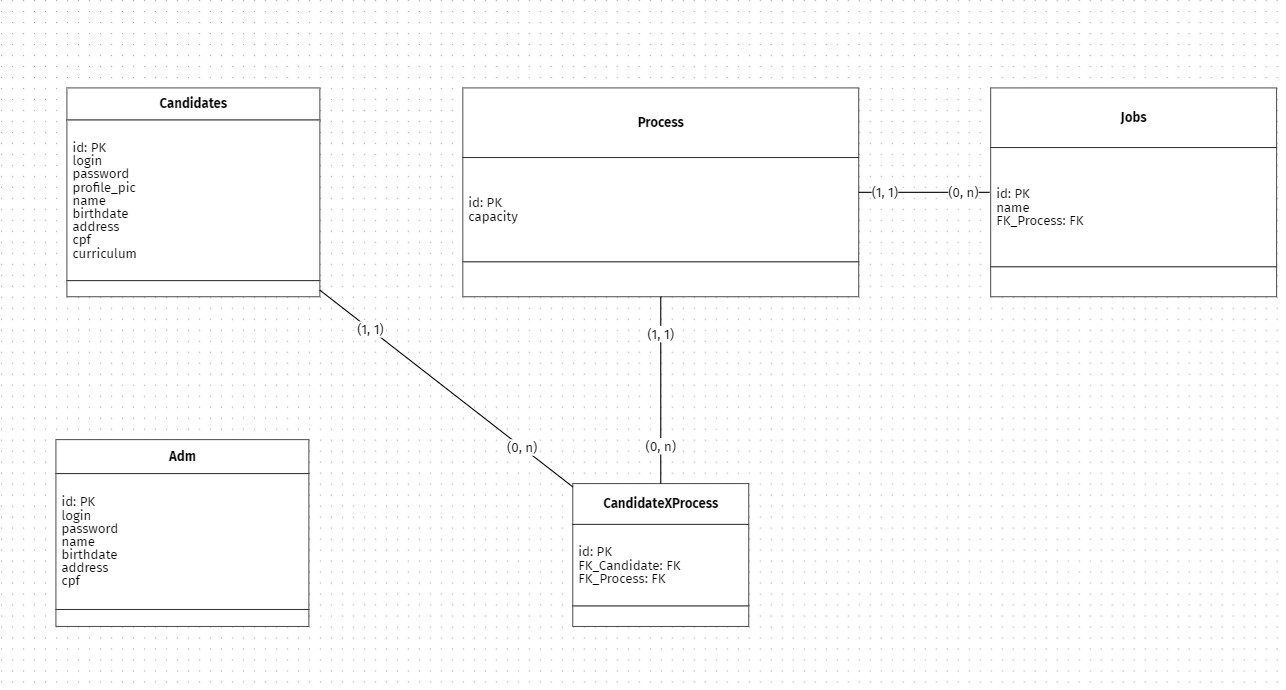
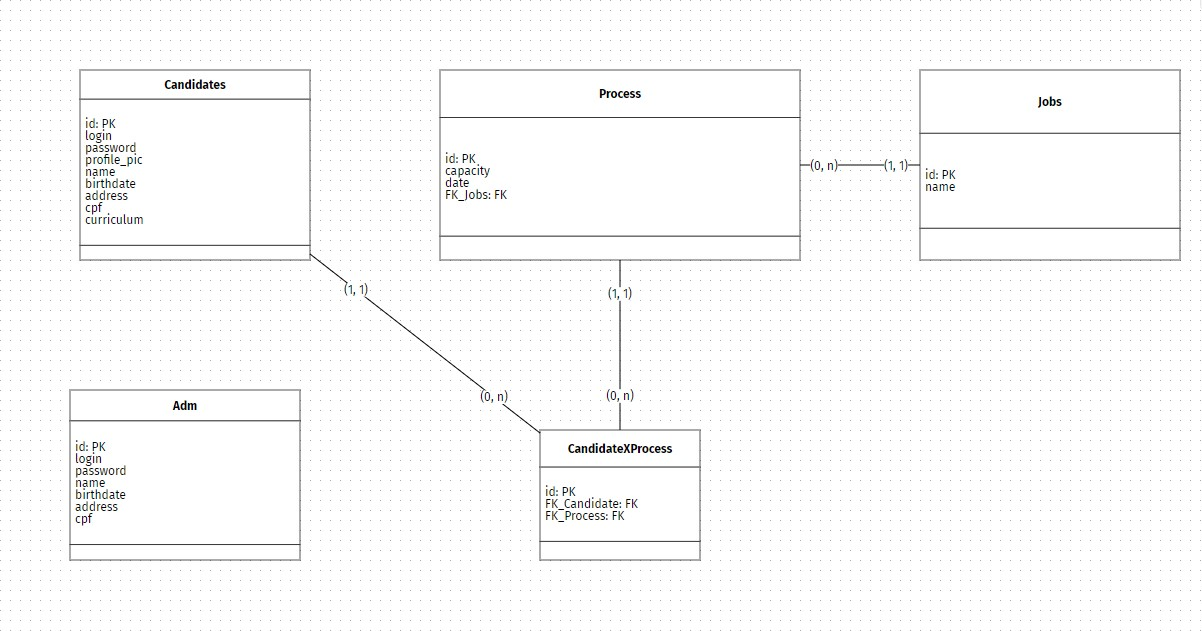
add: homePage's controller

diff --git a/src/controllers/homePage.js b/src/controllers/homePage.js
@@ -1,0 +1,28 @@
+const { name } = require('ejs');
+const user = require('../model/Candidate')
+const process = require('../model/Process')
+const job = require('../model/Jobs')
+
+
+module.exports = {
+
+    async homePageGet(req, res) {
+        const processData = await process.findAll({
+            raw: true,
+            attributes: ['id', 'capacity', 'FK_job']
+        });
+
+        const candidateData = await user.findAll({
+            raw: true,
+            attributes: ['id', 'login', 'password', 'profile_pic', 'name', 'birthdate', 'address', 'cpf', 'curriculum']
+        });
+
+        const jobData = await job.findAll({
+            raw: true,
+            attributes: ['id', 'name']
+        });
+
+        res.render("../views/homePage", { processData, candidateData, jobData });
+    }
+
+}

diff --git a/src/model/Process.js b/src/model/Process.js
@@ -15,20 +15,17 @@ const Process = database.define('Process', {
         allowNull: false
     },
 
+    date: {
+        type: sequelize.DATE,
+        allowNull: false
+    },
+
     FK_job: {
         type: sequelize.INTEGER,
         allowNull: false
     }
-
 });
 
-
-
 Process.belongsTo(Jobs, { foreignKey: "FK_job" });
-
-// Process.belongsTo(Jobs, {
-//     constraint: true, //Garantir integridade referencial
-//     foreignKey: 'id'
-// });
 
 module.exports = Process;

diff --git a/routes.js b/routes.js
@@ -2,12 +2,10 @@ const express = require('express');
 const route = express.Router();
 
 const home = require('./src/controllers/landingPage');
-const homePage = require('./src/controllers/process');
-
+const homePage = require('./src/controllers/homePage');
 
 route.get('/', home.getLandingPage);
 route.get('/register', home.getSignUp) 
-
 route.get('/homePage',homePage.homePageGet);
 
 module.exports = route;

diff --git a/src/model/Jobs.js b/src/model/Jobs.js
@@ -2,7 +2,6 @@ const sequelize = require('sequelize');
 const database = require('../config/db');
 const Process = require('../model/Process');
 
-
 const Jobs = database.define('Jobs',{
     id: {
         type: sequelize.INTEGER,
@@ -15,8 +14,5 @@ const Jobs = database.define('Jobs',{
         allowNull: false
     }
 });
-
-
-
 
 module.exports = Jobs;
